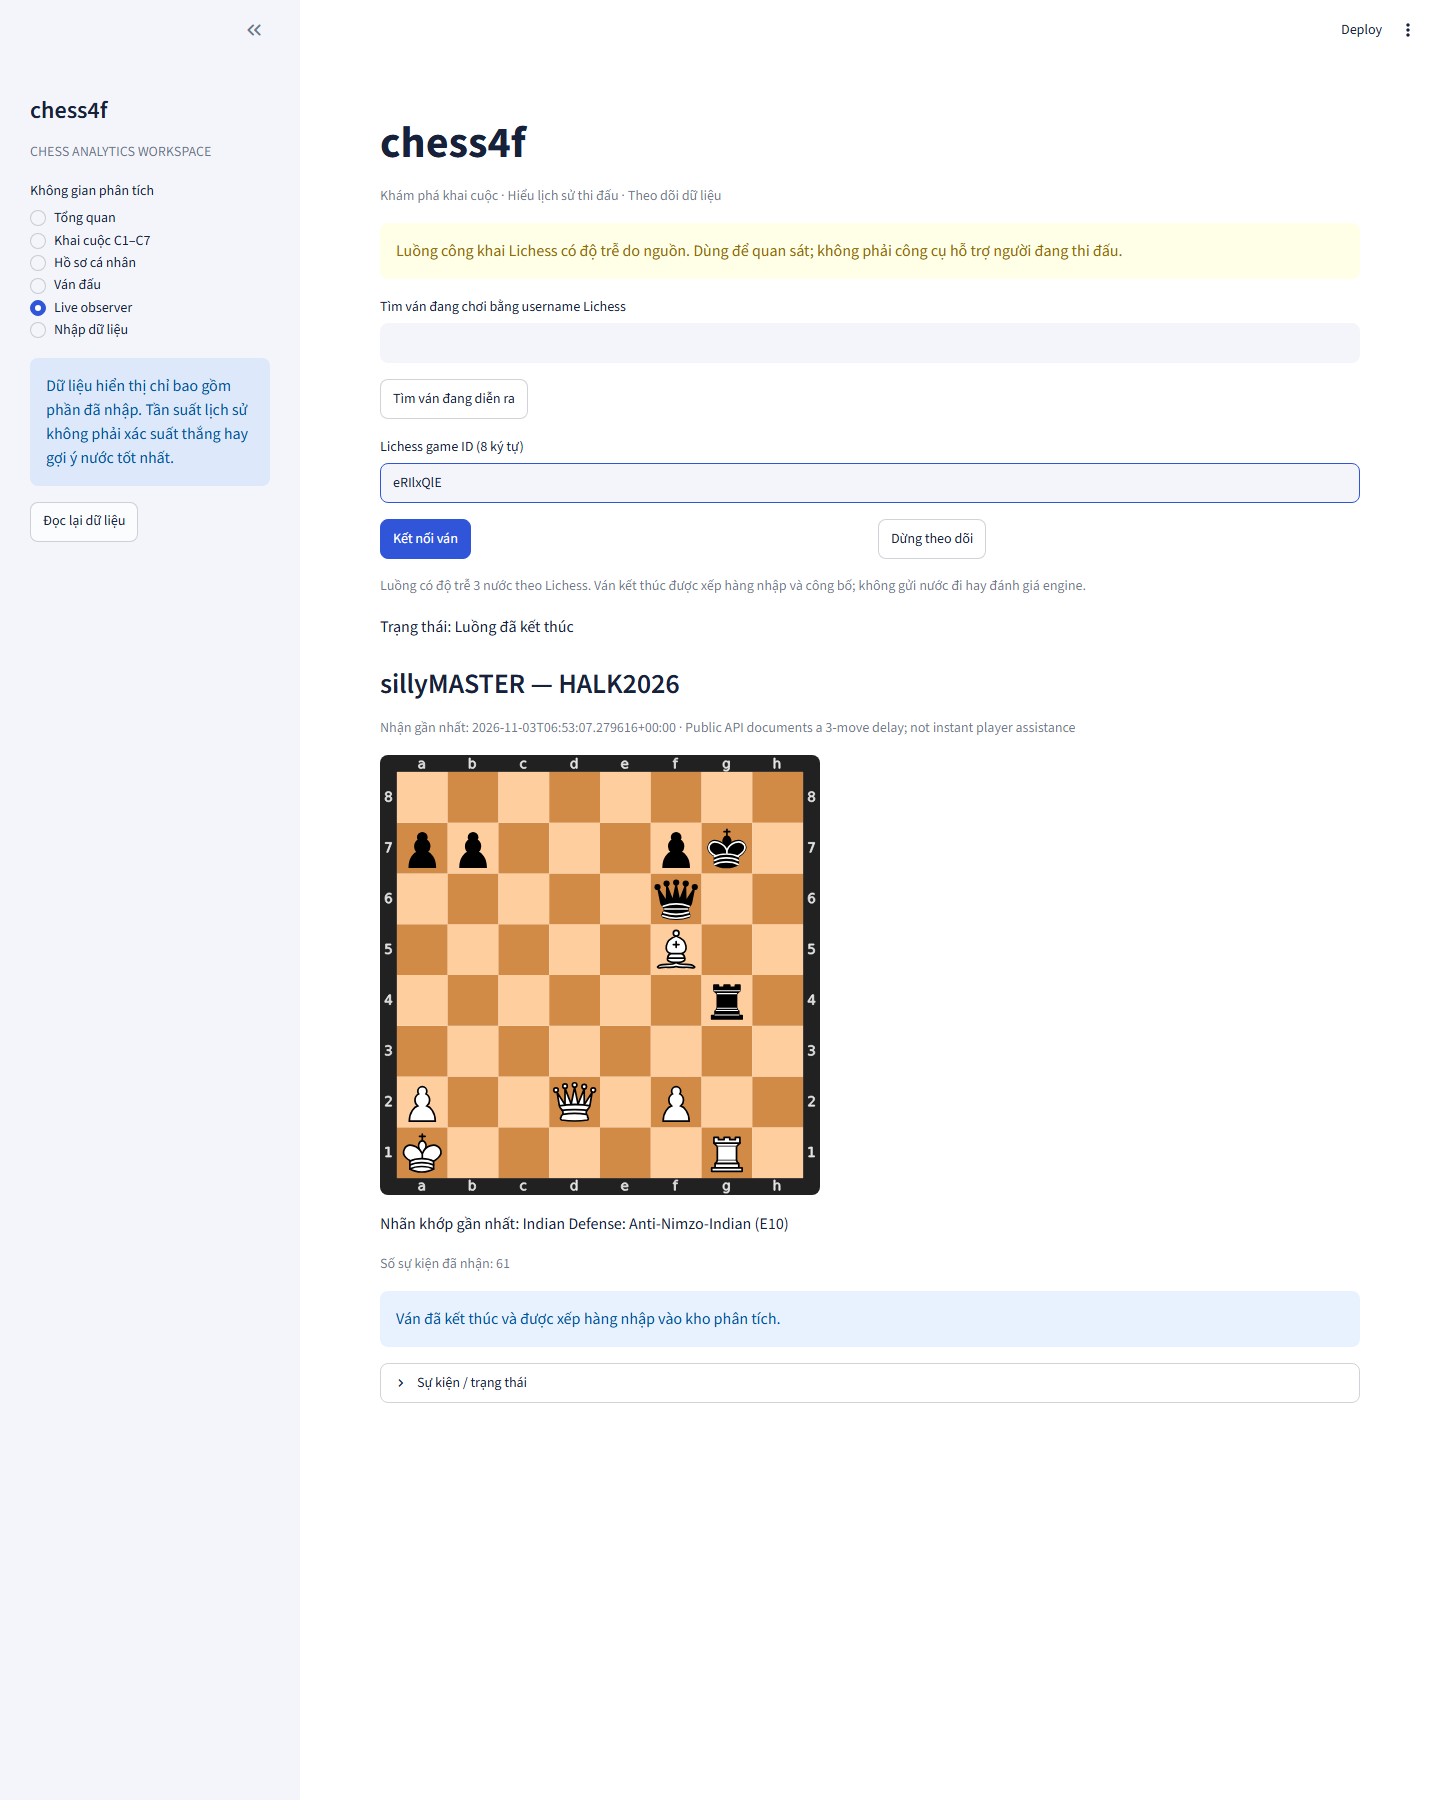
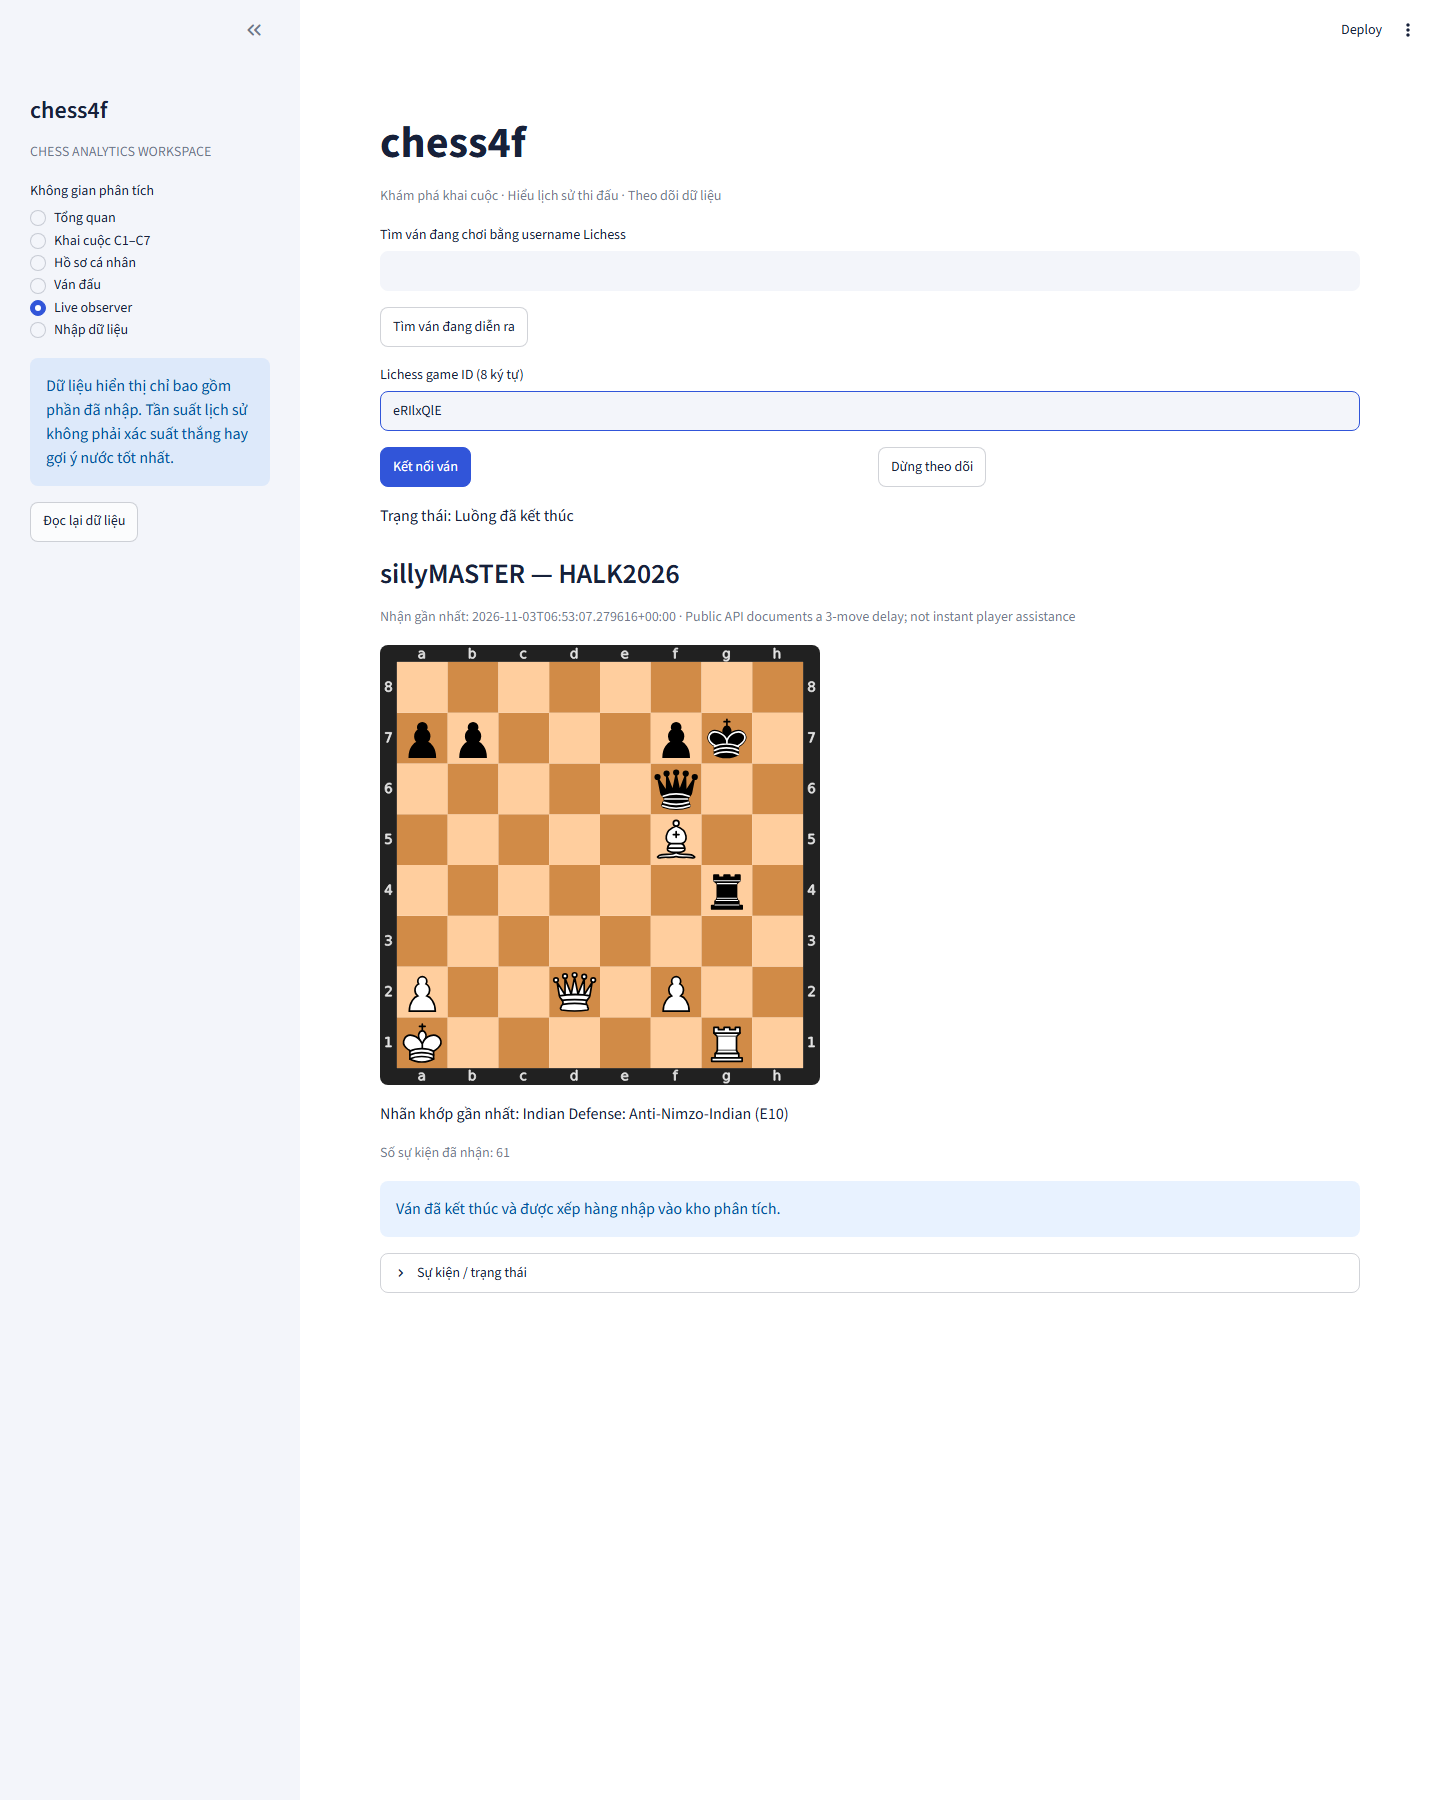
Remove explanatory captions from the dashboard views
Drops the requested captions: opening-analysis denominator note, the
player-sync range note, the profile coverage/200-game notes and the live
observer warnings. Charts and states stay unchanged; screenshots are
recaptured.

Changed region(s): [[0.25, 0.1244, 0.75, 0.7778], [0.5, 0.1244, 0.75, 0.1556]]

diff --git a/apps/player_profile_view.py b/apps/player_profile_view.py
@@ -15,7 +15,6 @@ def render(data):
         return
     for col, key, label in zip(st.columns(4), ["games", "wins", "draws", "losses"], ["Số ván", "Thắng", "Hòa", "Thua"]):
         col.metric(label, thousands(int(s.get(key) or 0)), border=True)
-    st.caption(f'Chỉ lịch sử đã nhập · {s["first_game"][:10]} → {s["last_game"][:10]} · Không khẳng định đầy đủ tài khoản')
     wins, draws, losses = int(s.get("wins") or 0), int(s.get("draws") or 0), int(s.get("losses") or 0)
     with st.container(border=True):
         st.subheader("Kết quả thực chiến")
@@ -65,7 +64,6 @@ def render(data):
             st.plotly_chart(fig, width="stretch")
         else:
             st.info("Chưa có Elo hợp lệ trong lựa chọn này.")
-        st.caption(f'Biểu đồ và bảng lịch sử dùng {len(history)} ván gần nhất đã nhập (API giới hạn 200); các chỉ số và biểu đồ phía trên dùng toàn bộ {s["games"]} ván.')
         with st.expander("Lịch sử ván — lấy game_key để phát lại"):
             st.dataframe(history, hide_index=True, width="stretch")
             st.download_button("Tải lịch sử đang hiển thị", history.to_csv(index=False).encode("utf-8-sig"), file_name="player_history.csv", mime="text/csv")

diff --git a/apps/dashboard.py b/apps/dashboard.py
@@ -130,7 +130,6 @@ elif section == "Nhập dữ liệu":
     from sync_panel import backfill
     backfill(API)
 elif section == "Live observer":
-    st.warning("Luồng công khai Lichess có độ trễ do nguồn. Dùng để quan sát; không phải công cụ hỗ trợ người đang thi đấu.")
     from sync_panel import post
     username_live = st.text_input("Tìm ván đang chơi bằng username Lichess")
     if st.button("Tìm ván đang diễn ra") and username_live:
@@ -147,7 +146,6 @@ elif section == "Live observer":
             st.success("Đã yêu cầu kết nối luồng Lichess.")
     if b.button("Dừng theo dõi") and game_id:
         post(API, f"/live-observers/{game_id}", method="DELETE")
-    st.caption("Luồng có độ trễ 3 nước theo Lichess. Ván kết thúc được xếp hàng nhập và công bố; không gửi nước đi hay đánh giá engine.")
     if game_id:
         @st.fragment(run_every="3s")
         def live_panel():

diff --git a/apps/opening_analysis.py b/apps/opening_analysis.py
@@ -36,7 +36,6 @@ def render(payload):
     n = st.slider("Số nhóm phổ biến hiển thị", 5, 20, 10)
     top = totals.head(n).opening_family.tolist()
     st.metric("Ván đủ điều kiện sau lọc", f'{int(totals.n_games.sum()):,}', border=True)
-    st.caption("Mẫu số tỷ trọng gồm mọi nhóm khai cuộc sau bộ lọc, kể cả nhóm ngoài Top N. Dữ liệu mẫu đầu tệp không đại diện toàn tháng.")
     view = st.selectbox("Câu hỏi phân tích", ["C1 · Phổ biến", "C2 · Xu hướng sử dụng", "C3 · Thắng, hòa, thua", "C4 · Kết quả theo Elo", "C5 · Phổ biến và kết quả", "C6 · So sánh biến thể", "C7 · Kết quả theo tháng"])
     fig = None
     table = totals

diff --git a/apps/sync_panel.py b/apps/sync_panel.py
@@ -58,7 +58,6 @@ def player_sync(api, source, username):
     if source == "import":
         return
     with st.expander("Tải / cập nhật lịch sử từ nền tảng"):
-        st.caption("Chọn khoảng tháng; Dagster tải, xử lý và công bố trong nền. Giới hạn áp dụng cho từng tháng; lịch sử ngoài phạm vi không bị xóa.")
         today = date.today()
         month = f"{today.year-1}-12" if today.month == 1 else f"{today.year}-{today.month-1:02}"
         with st.form("sync-player"):
